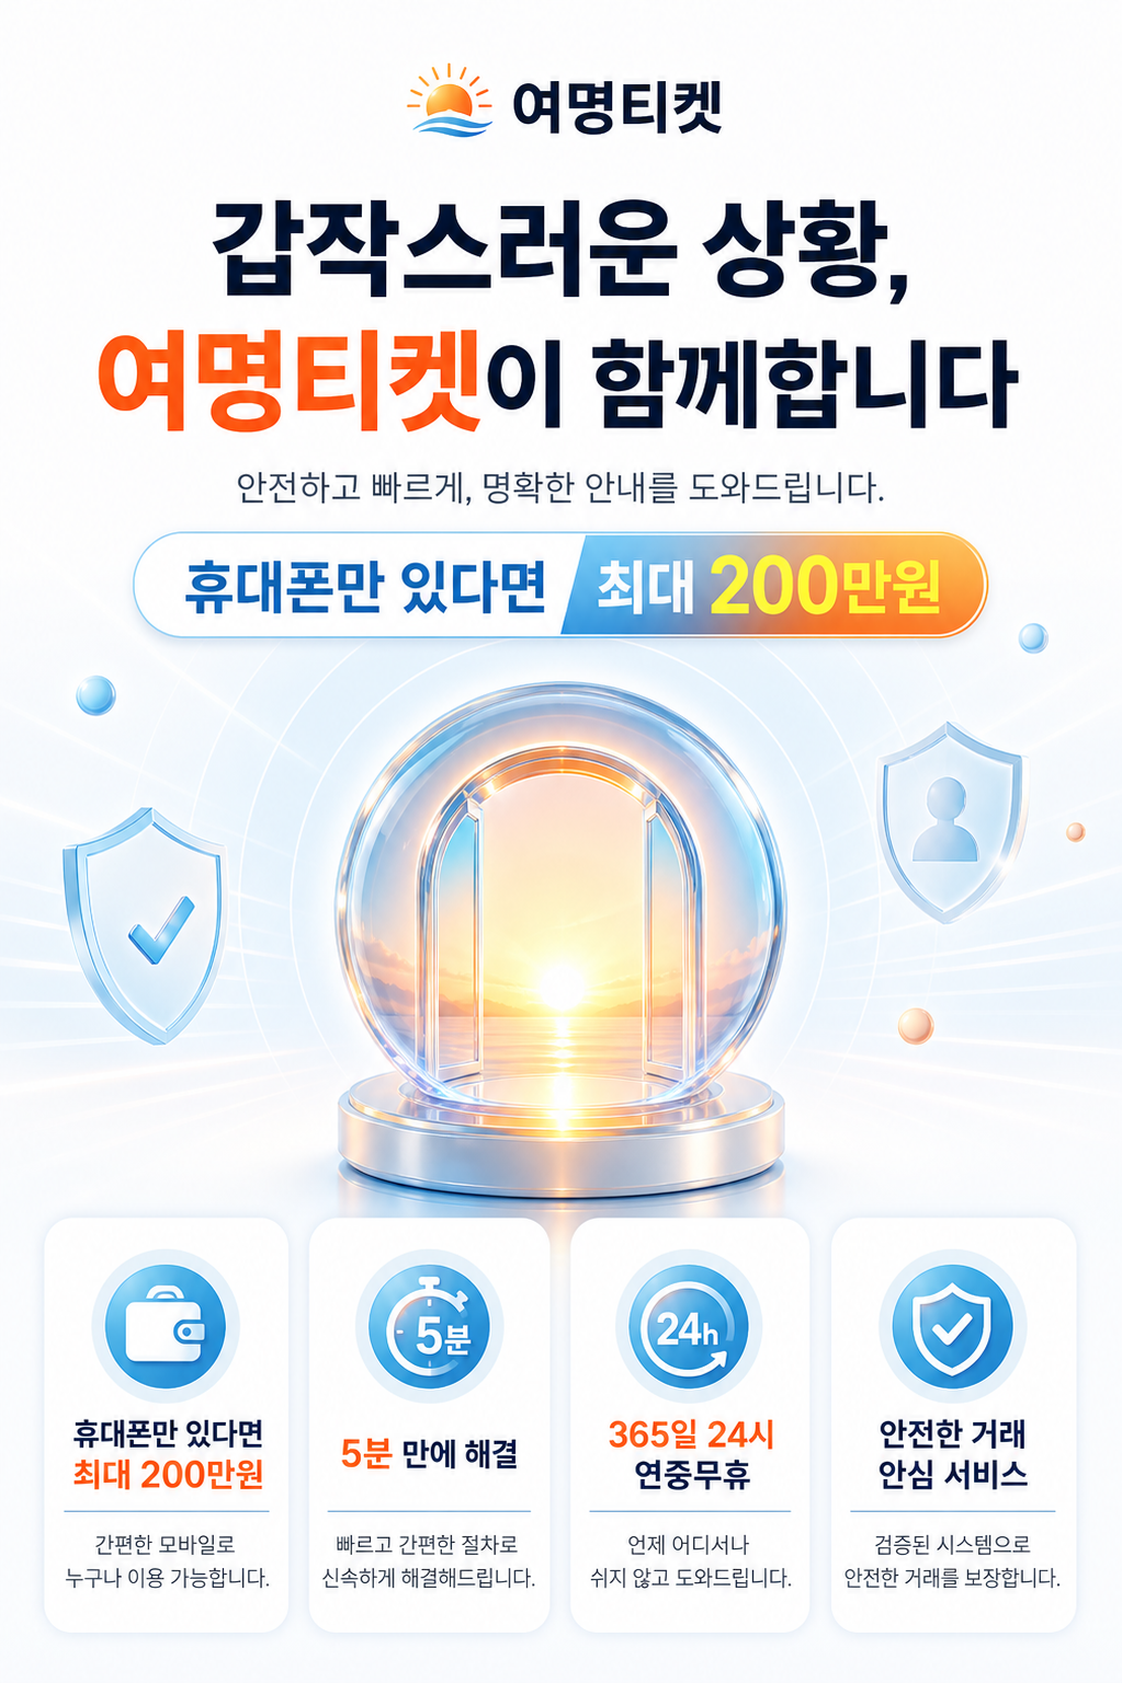
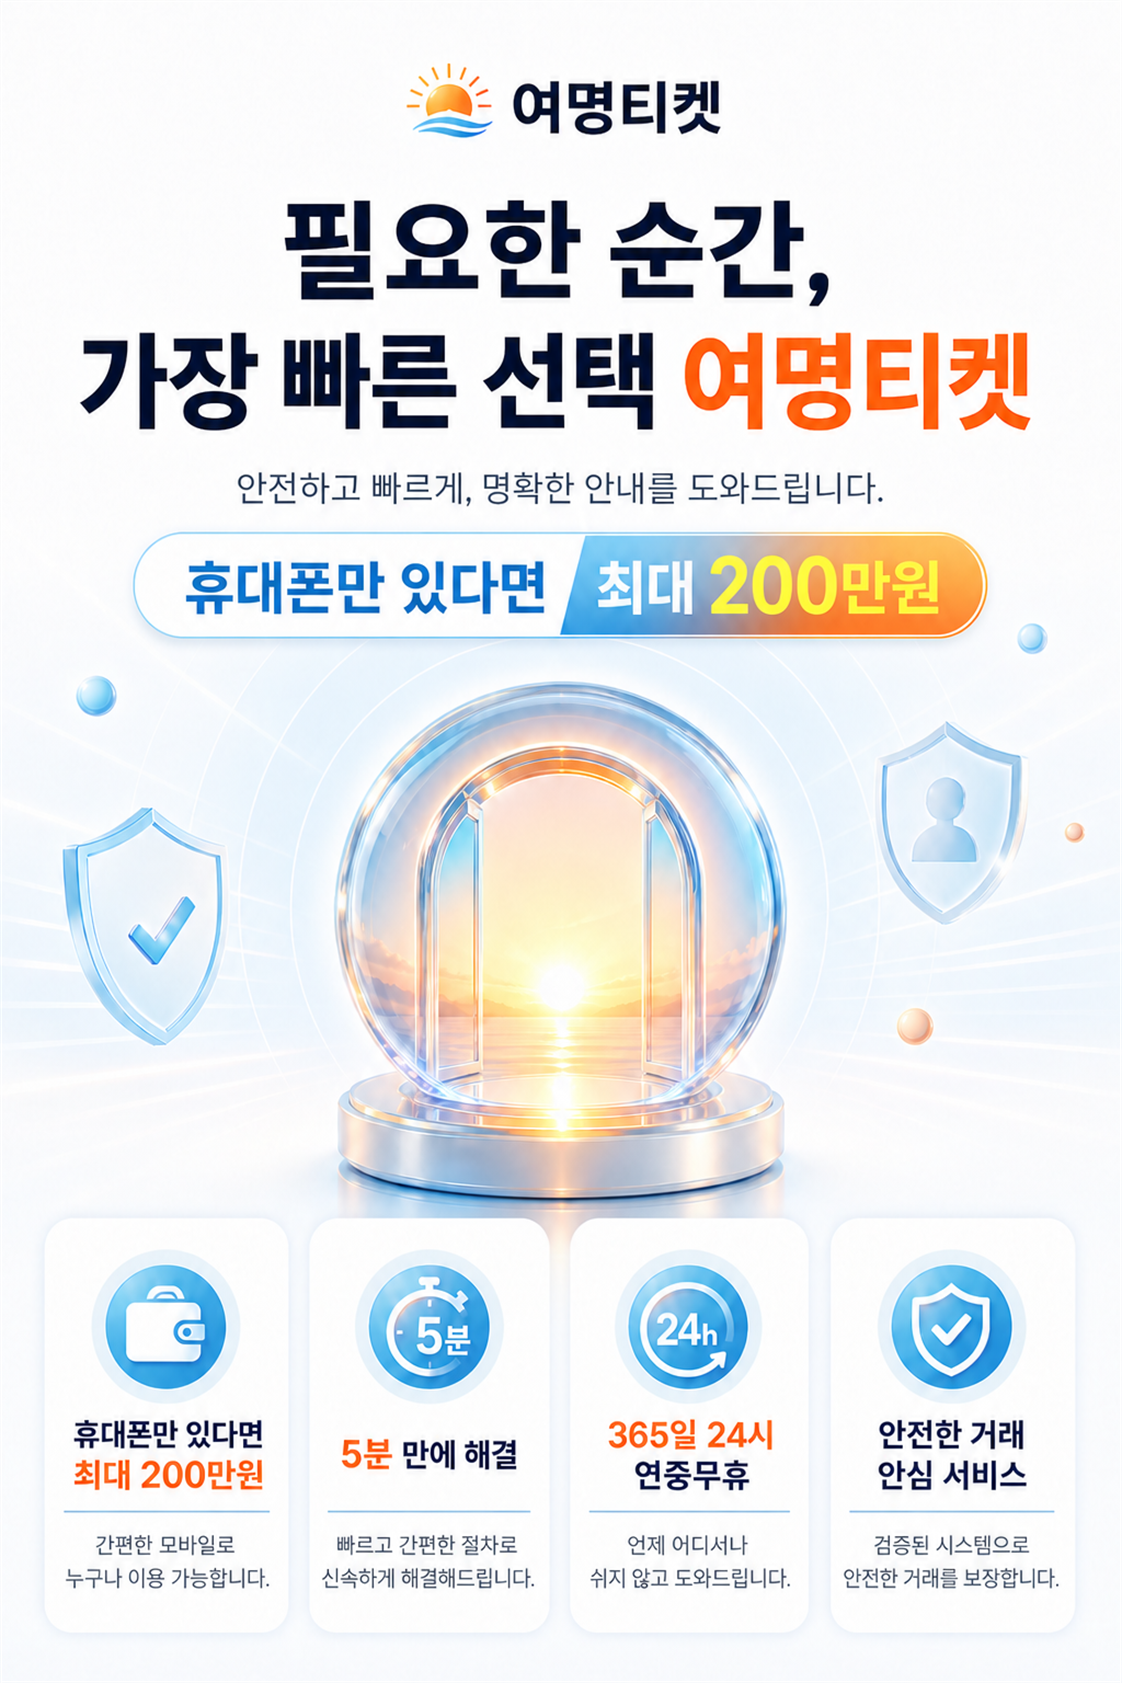
Add files via upload

diff --git a/styles.css b/styles.css
@@ -137,12 +137,12 @@ body {
 .contact-button:focus-visible,
 .header-line:hover,
 .header-line:focus-visible,
-.floating-line:hover,
-.floating-line:focus-visible { transform: translateY(-3px); }
+.floating-chat:hover,
+.floating-chat:focus-visible { transform: translateY(-3px); }
 
 .contact-button:focus-visible,
 .header-line:focus-visible,
-.floating-line:focus-visible { outline: 4px solid #ff8a62; outline-offset: 3px; }
+.floating-chat:focus-visible { outline: 4px solid #ff8a62; outline-offset: 3px; }
 
 .contact-button.line { color: #fff; background: linear-gradient(135deg, #27d46c, #08b857); }
 .contact-button.kakao { color: #2b2100; background: linear-gradient(135deg, #ffe54b, #ffd21d); }
@@ -158,28 +158,34 @@ body {
 
 .contact-band.final { height: 485px; padding-bottom: 110px; }
 
-.floating-line {
+.floating-contact {
   position: fixed;
   right: 24px;
   bottom: 24px;
   z-index: 50;
   display: flex;
+  flex-direction: column;
+  align-items: flex-end;
+  gap: 10px;
+}
+
+.floating-chat {
+  display: flex;
   align-items: center;
   width: 62px;
   height: 62px;
   overflow: hidden;
-  color: #fff;
   text-decoration: none;
   border-radius: 999px;
-  background: #19c864;
-  box-shadow: 0 14px 32px rgba(8, 120, 58, .25);
   transition: width .22s ease, transform .18s ease;
 }
 
-.floating-line:hover,
-.floating-line:focus-visible { width: 150px; }
-.floating-line span { display: grid; place-items: center; flex: 0 0 62px; font-size: 10px; font-weight: 950; }
-.floating-line strong { width: 76px; white-space: nowrap; font-size: 14px; }
+.floating-line { color: #fff; background: #19c864; box-shadow: 0 14px 32px rgba(8, 120, 58, .25); }
+.floating-kakao { color: #2b2100; background: #fee500; box-shadow: 0 14px 32px rgba(118, 91, 0, .24); }
+.floating-chat:hover,
+.floating-chat:focus-visible { width: 150px; }
+.floating-chat span { display: grid; place-items: center; flex: 0 0 62px; font-size: 10px; font-weight: 950; }
+.floating-chat strong { width: 76px; white-space: nowrap; font-size: 14px; }
 
 .visually-hidden {
   position: absolute !important;
@@ -209,10 +215,11 @@ body {
   .contact-button { width: 100%; height: 92px; justify-content: flex-start; }
   .chat-icon { width: 56px; height: 56px; }
   .contact-button strong { font-size: 22px; }
-  .floating-line { right: 12px; bottom: 12px; width: 54px; height: 54px; }
-  .floating-line:hover,
-  .floating-line:focus-visible { width: 136px; }
-  .floating-line span { flex-basis: 54px; }
+  .floating-contact { right: 12px; bottom: 12px; gap: 8px; }
+  .floating-chat { width: 54px; height: 54px; }
+  .floating-chat:hover,
+  .floating-chat:focus-visible { width: 136px; }
+  .floating-chat span { flex-basis: 54px; }
 }
 
 @media (prefers-reduced-motion: reduce) {

diff --git a/index.html b/index.html
@@ -27,7 +27,7 @@
     <h1 class="visually-hidden">여명티켓 빠르고 안전한 상담 안내</h1>
 
     <section class="image-section" aria-label="여명티켓 메인 안내">
-      <img src="assets/new-site/1.png" width="1122" height="1683" alt="갑작스러운 상황, 여명티켓이 함께합니다. 휴대폰만 있다면 최대 200만원. 5분 만에 해결, 365일 24시, 안전한 거래." loading="eager">
+      <img src="assets/new-site/1.png" width="1122" height="1683" alt="필요한 순간, 가장 빠른 선택 여명티켓. 휴대폰만 있다면 최대 200만원. 5분 만에 해결, 365일 24시, 안전한 거래." loading="eager">
     </section>
 
     <section class="contact-band" aria-label="첫 번째 상담 연결">
@@ -84,8 +84,13 @@
     </section>
   </main>
 
-  <a class="floating-line" href="#" data-contact-link aria-label="LINE 상담 연결">
-    <span>LINE</span><strong>LINE 상담</strong>
-  </a>
+  <div class="floating-contact" aria-label="빠른 상담 연결">
+    <a class="floating-chat floating-kakao" href="#" data-contact-link aria-label="카카오톡 상담 연결">
+      <span>TALK</span><strong>카톡 상담</strong>
+    </a>
+    <a class="floating-chat floating-line" href="#" data-contact-link aria-label="LINE 상담 연결">
+      <span>LINE</span><strong>LINE 상담</strong>
+    </a>
+  </div>
 </body>
 </html>
